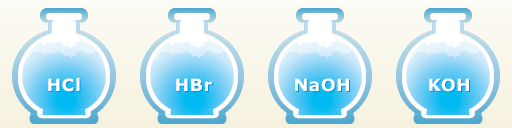
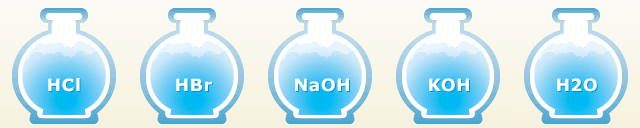
Adiciona agua as substâncias.

diff --git a/cube.cpp b/cube.cpp
@@ -24,6 +24,7 @@ CubeSubstance::CubeSubstance(CubeID cube, App* app) {
     substances[1] = &hbr;
     substances[2] = &naoh;
     substances[3] = &koh;
+    substances[4] = &h2o;
 }
 
 CubeBecher::CubeBecher(CubeID cube, App* app) : dropTicker(9), liquidTicker(7.5) {
@@ -40,11 +41,13 @@ CubeBecher::CubeBecher(CubeID cube, App* app) : dropTicker(9), liquidTicker(7.5)
     SubstanceVolumeWrapper hbrWrapper = {&hbr, 0};
     SubstanceVolumeWrapper naohWrapper = {&naoh, 0};
     SubstanceVolumeWrapper kohWrapper = {&koh, 0};
+    SubstanceVolumeWrapper h2oWrapper = {&h2o, 0};
 
     substances[0] = hclWrapper;
     substances[1] = hbrWrapper;
     substances[2] = naohWrapper;
     substances[3] = kohWrapper;
+    substances[4] = h2oWrapper;
 
     SubstanceVolumeWrapper mixedWrapper = {&mixedSubstance, 0};
 
@@ -141,7 +144,7 @@ void CubeBecher::printSubstance(unsigned index) {
 }
 
 void CubeBecher::addSubstance(Substance* substance, float volume) {
-    for(unsigned i = 0 ; i < 4 ; i++) {
+    for(unsigned i = 0 ; i < 5 ; i++) {
         if(substances[i].substance->name == substance->name) {
             substances[i].volume += volume;
             Calculator::mixTwoSubstances(mApp->cubeBecher, i);
@@ -223,7 +226,7 @@ void CubePipete::animate(float dt){
 
 //######## onTouch Events ############
 void CubeSubstance::rotate() {
-    activeSubstance = (activeSubstance + 1) % 4;
+    activeSubstance = (activeSubstance + 1) % 5;
 }
 
 void CubeSubstance::onTouch(unsigned id) {

diff --git a/cube.h b/cube.h
@@ -76,12 +76,13 @@ public:
     VideoBuffer vid;
 
     unsigned activeSubstance = 0;
-    Substance *substances[4];
+    Substance *substances[5];
 
     Substance hcl = Acid("HCl", 1.0f, 1);
     Substance hbr = Acid("HBr", 1.0f, 1);
     Substance naoh = Base("NaOH", 1.0f, 1);
     Substance koh = Base("KOH", 1.0f, 1);
+    Substance h2o = Substance("H2O", 0.0f, 0, 0);
 
     void init();
     void rotate();
@@ -116,13 +117,14 @@ public:
     LiquidAnimation liquidAnim;
     DropAnimation dropAnim;
 
-    SubstanceVolumeWrapper substances[4];
+    SubstanceVolumeWrapper substances[5];
     SubstanceVolumeWrapper mixedWrapper;
 
     Substance hcl = Acid("HCl", 1.0f, 1);
     Substance hbr = Acid("HBr", 1.0f, 1);
     Substance naoh = Base("NaOH", 1.0f, 1);
     Substance koh = Base("KOH", 1.0f, 1);
+    Substance h2o = Substance("H2O", 0.0f, 0, 0);
 
     Substance mixedSubstance = Substance("", 0.0f, 0, 0);
 
